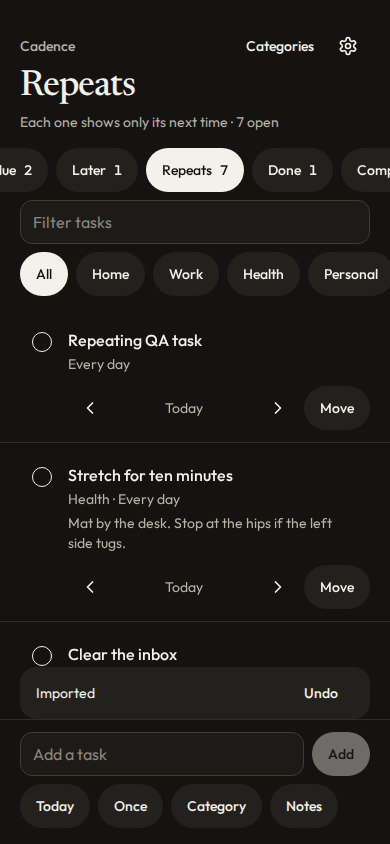
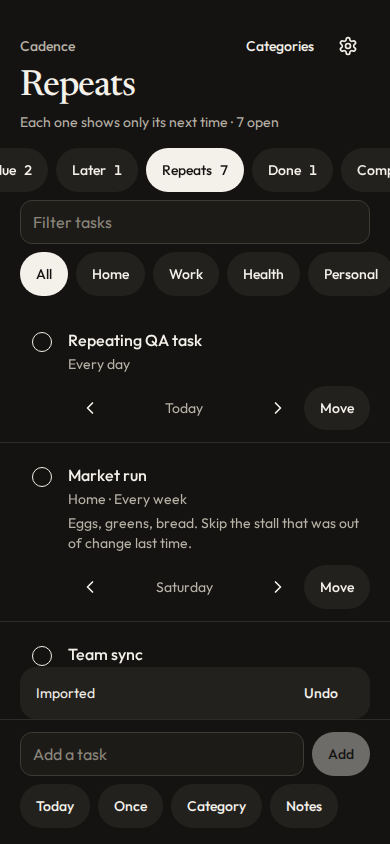
fix(sync): resolve concurrent write races and write-queue recovery

Changed region(s): [[0.1846, 0.5545, 0.9231, 0.6777], [0.1846, 0.7701, 0.4615, 0.8009], [0.4, 0.6777, 0.5538, 0.7085]]

diff --git a/src/lib/cadence/store.test.ts b/src/lib/cadence/store.test.ts
@@ -80,6 +80,58 @@ test("persisted state excludes the bearer token", () => {
   assert.equal("serverToken" in persisted, false);
 });
 
+test("concurrent local edits while sync is in flight are preserved", async () => {
+  resetState();
+  let releaseServer: () => void = () => {};
+  const serverHeld = new Promise<void>((resolve) => {
+    releaseServer = resolve;
+  });
+
+  const originalFetch = globalThis.fetch;
+  globalThis.fetch = async (input, init) => {
+    const url = String(input);
+    if (url.endsWith("/health")) {
+      return new Response(JSON.stringify({ ok: true }), { status: 200 });
+    }
+    if (url.endsWith("/v1/state") && (!init?.method || init.method === "GET")) {
+      await serverHeld;
+      return new Response(JSON.stringify({ tasks: [], categories: [] }), {
+        status: 200,
+        headers: { ETag: '"0"' },
+      });
+    }
+    if (url.endsWith("/v1/state") && init?.method === "PUT") {
+      return new Response(JSON.stringify({ ok: true, revision: 1 }), {
+        status: 200,
+        headers: { ETag: '"1"' },
+      });
+    }
+    return originalFetch(input, init);
+  };
+
+  try {
+    useCadence.getState().setServer("https://tasks.example.com", "session-secret");
+    const syncPromise = syncNow();
+
+    useCadence.getState().addTask({
+      title: "Concurrent local task",
+      notes: "must not be wiped",
+      categoryId: null,
+      date: "2026-09-28",
+      repeat: { kind: "none" },
+    });
+
+    releaseServer();
+    await syncPromise;
+
+    const state = useCadence.getState();
+    assert.equal(state.syncStatus, "ok");
+    assert.equal(state.tasks.some((t) => t.title === "Concurrent local task"), true);
+  } finally {
+    globalThis.fetch = originalFetch;
+  }
+});
+
 test("failed synchronization records an actionable connection error", async () => {
   resetState();
   const originalFetch = globalThis.fetch;

diff --git a/src/lib/cadence/store.ts b/src/lib/cadence/store.ts
@@ -12,7 +12,7 @@ import {
   type Task,
   type ViewId,
 } from "./model.ts";
-import { mergeById, syncDoc, type CadenceDoc } from "./sync.ts";
+import { mergeById, mergeDocs, syncDoc, type CadenceDoc } from "./sync.ts";
 
 export type Notice = {
   text: string;
@@ -318,16 +318,41 @@ export async function bootCadence() {
 }
 
 let pushing = false;
+let pendingSync = false;
 
 export async function syncNow() {
-  const state = useCadence.getState();
-  if (!state.serverUrl || !state.serverToken) return;
-  useCadence.setState({ syncStatus: "syncing", syncError: null });
+  const initial = useCadence.getState();
+  if (!initial.serverUrl || !initial.serverToken) return;
+  if (pushing) {
+    pendingSync = true;
+    return;
+  }
+
   pushing = true;
+  useCadence.setState({ syncStatus: "syncing", syncError: null });
+
   try {
-    const latest = useCadence.getState();
-    const merged = await syncDoc(latest.serverUrl, latest.serverToken, { tasks: latest.tasks, categories: latest.categories });
-    useCadence.setState({ ...merged, syncStatus: "ok", syncError: null, lastSyncedAt: nowIso() });
+    while (true) {
+      pendingSync = false;
+      const snapshot = useCadence.getState();
+      const merged = await syncDoc(snapshot.serverUrl, snapshot.serverToken, {
+        tasks: snapshot.tasks,
+        categories: snapshot.categories,
+      });
+
+      const current = useCadence.getState();
+      const currentDoc = { tasks: current.tasks, categories: current.categories };
+      const combined = mergeDocs(currentDoc, merged);
+
+      useCadence.setState({
+        ...combined,
+        syncStatus: "ok",
+        syncError: null,
+        lastSyncedAt: nowIso(),
+      });
+
+      if (!pendingSync) break;
+    }
   } catch (error) {
     useCadence.setState({
       syncStatus: "error",

diff --git a/src/lib/cadence/sync.ts b/src/lib/cadence/sync.ts
@@ -61,7 +61,7 @@ export function mergeById<T extends { id: string; updatedAt: string; deleted?: b
   });
 }
 
-function mergeDocs(local: CadenceDoc, remote: CadenceDoc): CadenceDoc {
+export function mergeDocs(local: CadenceDoc, remote: CadenceDoc): CadenceDoc {
   return {
     tasks: mergeById(local.tasks, remote.tasks),
     categories: mergeById(local.categories, remote.categories),

diff --git a/playwright.config.ts b/playwright.config.ts
@@ -4,6 +4,12 @@ export default defineConfig({
   testDir: "./e2e",
   outputDir: "./docs/qa/test-results",
   reporter: [["line"]],
+  timeout: 60_000,
+  expect: {
+    timeout: 10_000,
+  },
+  fullyParallel: false,
+  workers: 1,
   retries: process.env.CI ? 1 : 0,
   use: {
     baseURL: "http://127.0.0.1:8080",
